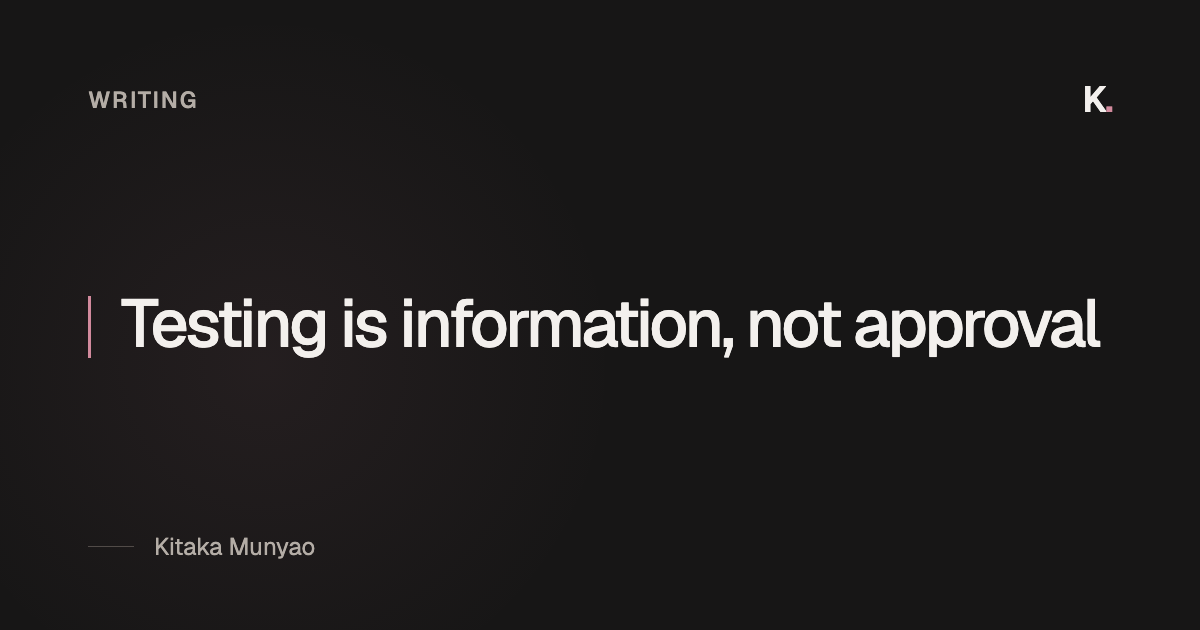
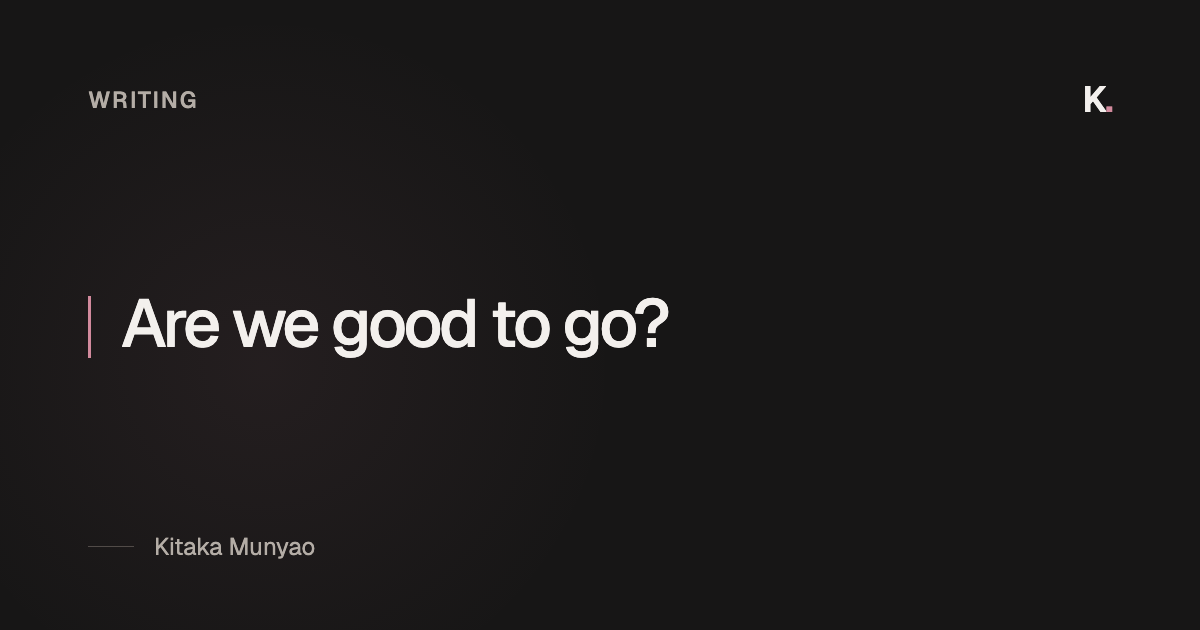
refactor(writing): refine article framing

Changed region(s): [[0.0925, 0.4524, 0.925, 0.573]]

diff --git a/src/content/articles/testing-is-information-not-approval.ts b/src/content/articles/testing-is-information-not-approval.ts
@@ -3,22 +3,22 @@ import type { Article } from "./types";
 export const testingIsInformationNotApproval: Article = {
   slug: "testing-is-information-not-approval",
 
-  title: "Testing is information, not approval",
+  title: "Are we good to go?",
 
   description:
-    "Why testing should inform release decisions rather than turning QA into the final gatekeeper.",
+    "What testing can tell a team when a release needs a decision.",
 
   publishedAt: "2026-08-13",
 
-  readingTime: "6 min read",
+  readingTime: "4 min read",
 
   sections: [
     {
       type: "paragraphs",
       paragraphs: [
-        "One of the most uncomfortable responsibilities that can quietly fall onto a quality engineer is the idea that software becomes safe to release only when QA approves it.",
-        "It often sounds reasonable. Testing usually happens towards the end of a piece of work, QA has often explored more of the product's behaviour by that point, and someone needs to decide whether the release should proceed.",
-        "But I think that framing creates the wrong kind of responsibility.",
+        "Near the end of a release, that question often lands with QA.",
+        "I understand why. Testing usually happens towards the end of a piece of work, the quality engineer may have explored more of the complete change than anyone else, and the team needs to decide whether the release should proceed.",
+        "The question becomes uncomfortable when “good to go” means that the software is safe because QA has approved it.",
         "Testing can tell a team what has been observed, what has not been explored, which behaviours appear reliable, where uncertainty remains, and what risks may still matter. It can provide evidence. It cannot turn uncertainty into certainty.",
       ],
     },
@@ -30,7 +30,7 @@ export const testingIsInformationNotApproval: Article = {
         "When QA becomes the final sign-off point, release responsibility can gradually move away from the people who actually own the product and the engineering decisions behind it.",
         "A release may contain a known limitation, an unresolved edge case, or a dependency that behaves unpredictably. Those things do not automatically mean the product cannot be released. They mean the team needs to understand the consequences and decide whether the remaining risk is acceptable.",
         "That decision usually involves more than testing. Product may understand the customer impact. Engineering may understand the technical exposure. Support may know whether a workaround is realistic. Quality engineering contributes another important perspective, but it is still one perspective.",
-        "If QA alone is expected to approve the release, the team can end up asking the wrong question: 'Did QA pass it?' rather than 'Do we understand this well enough to release it?'",
+        "If QA alone is expected to approve the release, the team can end up asking whether QA passed it rather than whether everyone understands it well enough to release it.",
       ],
     },
 
@@ -39,8 +39,7 @@ export const testingIsInformationNotApproval: Article = {
       heading: "Testing should reduce uncertainty",
       paragraphs: [
         "Useful testing changes what the team knows.",
-        "Sometimes that means confirming that an important workflow still behaves as expected. Sometimes it means discovering an unexpected interaction between systems. Sometimes the outcome of testing is that we still do not understand something well enough and need more investigation.",
-        "That is why I prefer to think about testing in terms of confidence rather than approval.",
+        "That may mean confirming that an important workflow still behaves as expected, discovering an unexpected interaction between systems, or finding that something still needs more investigation.",
         "Confidence can increase when repeated checks show that important behaviour remains stable. It can decrease when exploratory testing reveals assumptions we had not considered. Either outcome is useful because the team now knows more than it did before.",
       ],
     },
@@ -83,8 +82,7 @@ export const testingIsInformationNotApproval: Article = {
       heading: "Approval is attractive because certainty is attractive",
       paragraphs: [
         "I understand why teams fall into approval workflows. A clear gate feels safer. It gives everyone a moment where somebody can say the work is finished and ready.",
-        "Software rarely offers that level of certainty.",
-        "Real users have different environments, data, and workflows. External services change. Production reveals combinations and behaviours that are difficult to reproduce beforehand.",
+        "Software rarely offers that level of certainty. Real users have different environments, data, and workflows. External services change. Production reveals combinations and behaviours that are difficult to reproduce beforehand.",
         "That does not mean we should release carelessly and wait for users to find the problems. It means we should do the work appropriate to the risk, understand the evidence we have, acknowledge what we do not know, and make the release decision deliberately.",
       ],
     },

diff --git a/tests/navigation.spec.ts b/tests/navigation.spec.ts
@@ -41,7 +41,7 @@ const articles = [
     path: "/writing/testing-connected-workflows",
   },
   {
-    title: "Testing is information, not approval",
+    title: "Are we good to go?",
     path: "/writing/testing-is-information-not-approval",
   },
 ];
@@ -325,12 +325,12 @@ test.describe("navigation", () => {
 
     const writingSection = page.locator("#writing");
     const featuredArticleLink = writingSection.getByRole("link", {
-      name: "Testing connected workflows",
+      name: "A first version takes shape",
     });
 
     await expect(featuredArticleLink).toHaveAttribute(
       "href",
-      "/writing/testing-connected-workflows",
+      "/writing/what-an-mvp-should-refuse",
     );
   });
 
@@ -465,7 +465,7 @@ test.describe("navigation", () => {
 
     await writingNavigation
       .getByRole("link", {
-        name: /Testing is information, not approval/,
+        name: /Are we good to go\?/,
       })
       .click();
 

diff --git a/tests/metadata.spec.ts b/tests/metadata.spec.ts
@@ -18,7 +18,7 @@ const publicRoutes = [
   },
   {
     path: "/writing/testing-is-information-not-approval",
-    title: "Testing is information, not approval | Kitaka",
+    title: "Are we good to go? | Kitaka",
     image: "/social/testing-is-information-not-approval.png",
   },
   {

diff --git a/tests/routes.spec.ts b/tests/routes.spec.ts
@@ -19,7 +19,7 @@ const routes = [
   {
     name: "testing is information article",
     path: "/writing/testing-is-information-not-approval",
-    heading: "Testing is information, not approval",
+    heading: "Are we good to go?",
   },
   {
     name: "connected workflows article",

diff --git a/src/content/articles/what-an-mvp-should-refuse.ts b/src/content/articles/what-an-mvp-should-refuse.ts
@@ -10,7 +10,7 @@ export const whatAnMvpShouldRefuse: Article = {
 
   publishedAt: "2026-09-02",
 
-  readingTime: "5 min read",
+  readingTime: "6 min read",
 
   sections: [
     {
